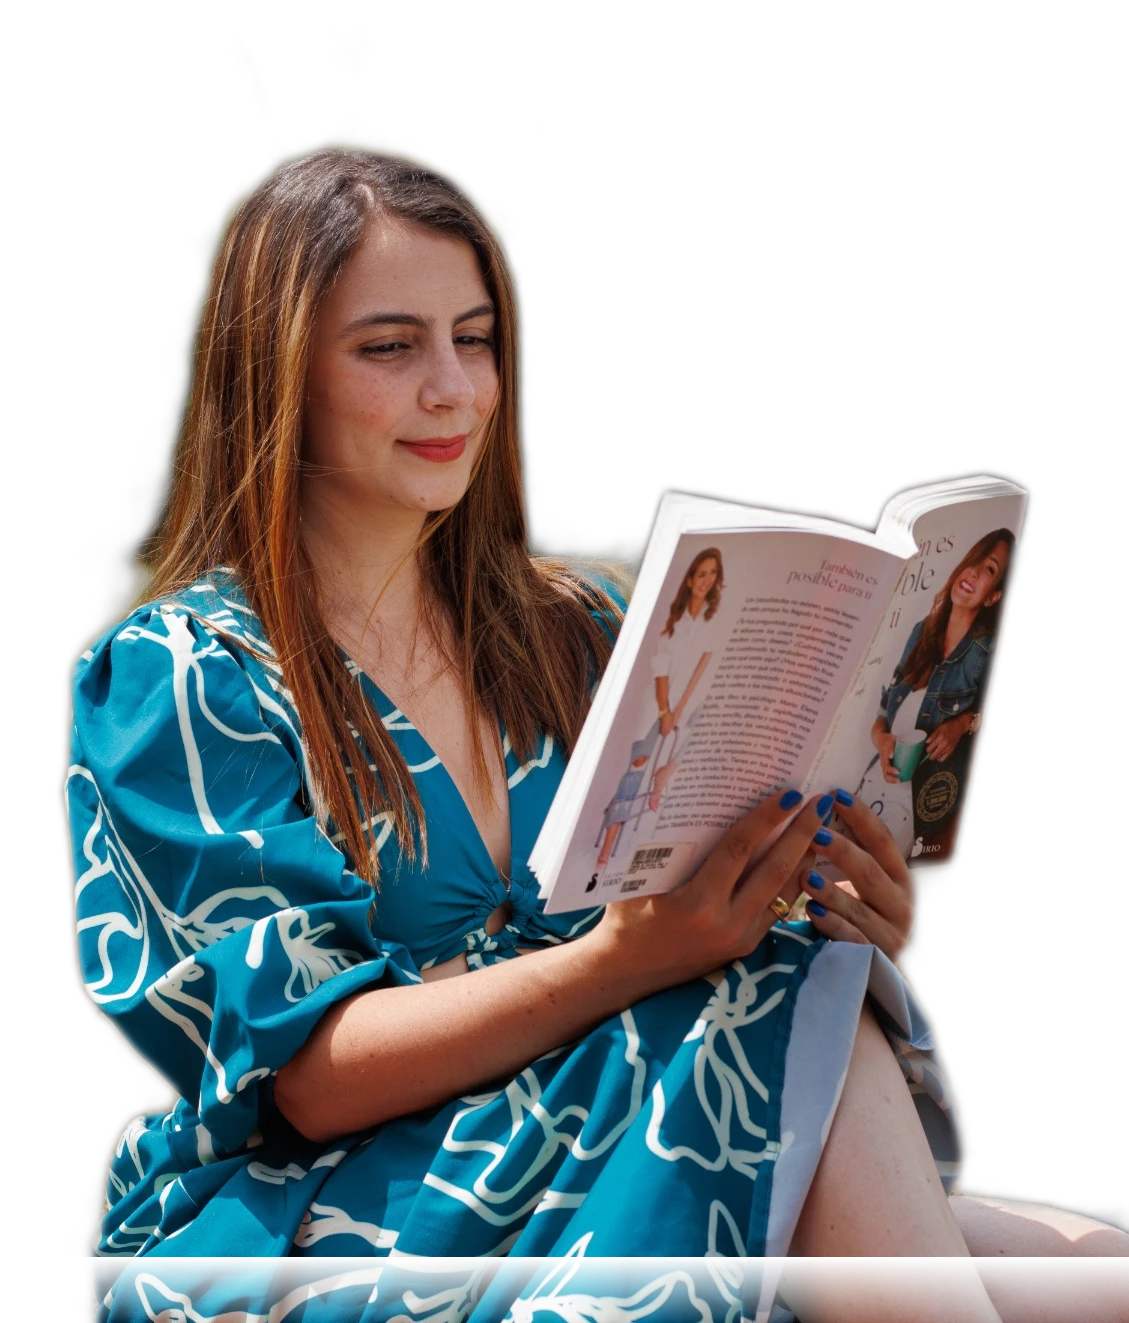
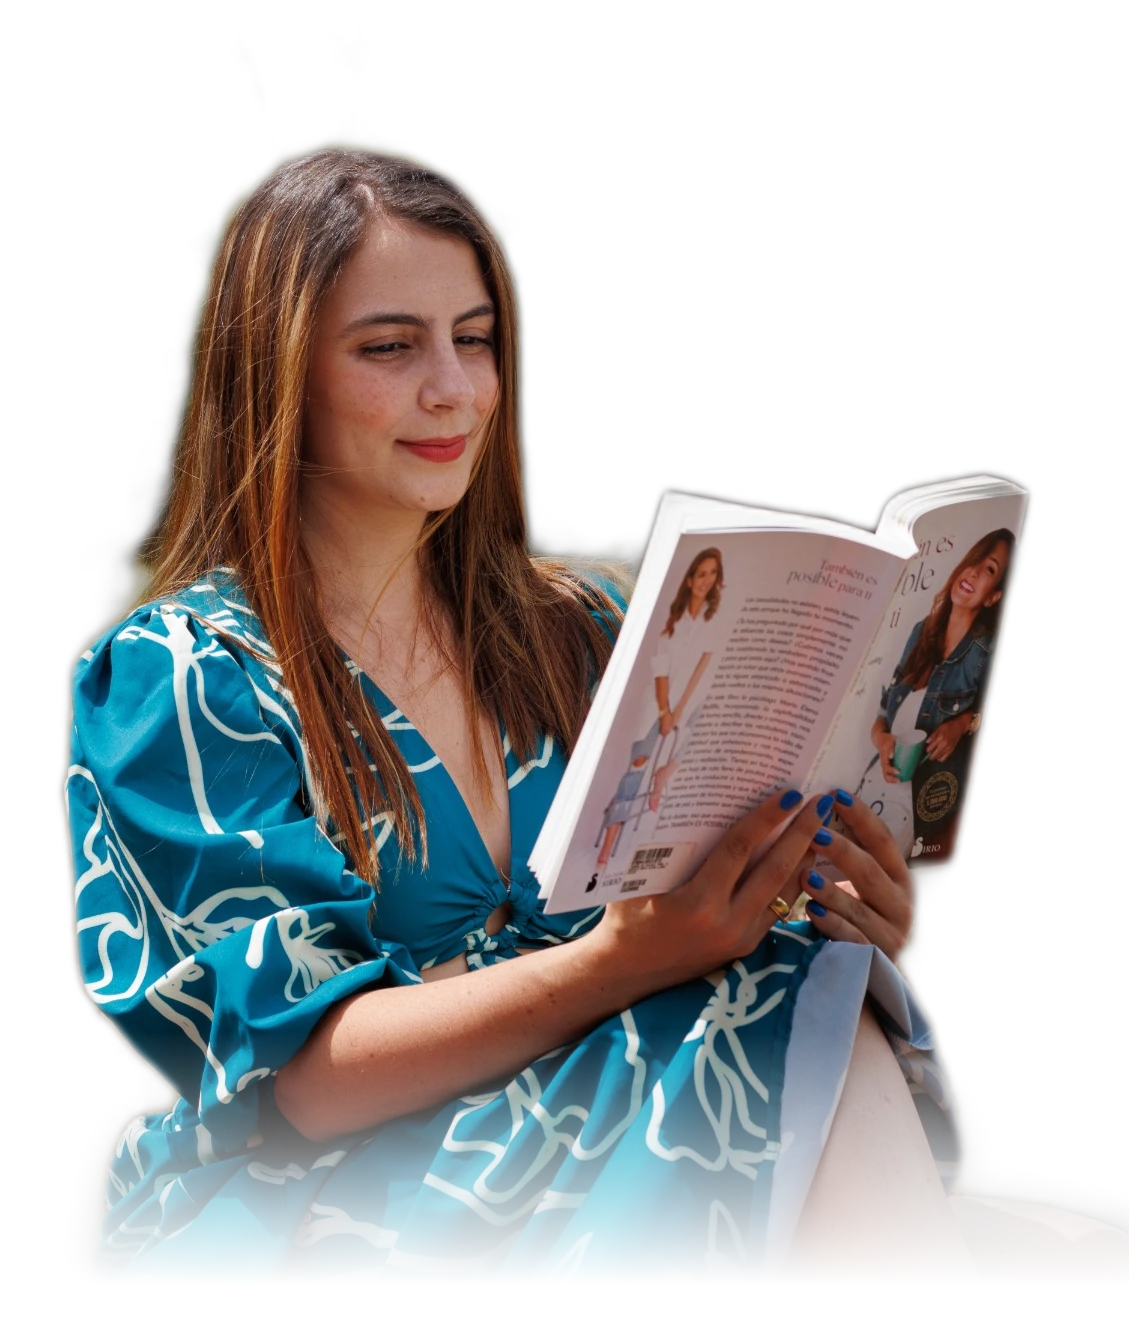
Quita los orbes/sombra del header y difumina la foto en vez de cortarla
La foto ahora se disuelve con un blur progresivo hacia abajo (mezcla
nítido->borroso + fade de alfa) en vez de depender de las formas de
sombra en CSS para disimular un corte recto que se veía "mal pegado".

Además:
- Tarjeta con fondo propio para "Mi forma de acompañarte" (contraste
  real contra la página) + columna única en móvil.
- Botones de la historia (acordeón) de azul petróleo más claro en vez
  de azul profundo — se veían muy oscuros.

Changed region(s): [[0.062, 0.7748, 1.0, 1.0]]

diff --git a/index.html b/index.html
@@ -76,20 +76,6 @@
   }
   .hero-photo-wrap { grid-area: foto; position: relative; display: flex; justify-content: center; padding-bottom: 22px; }
   @media (max-width: 860px) { .hero-photo-wrap { padding-bottom: 4px; } }
-  .hero-photo-asiento {
-    position: absolute; left: 50%; bottom: -10px; transform: translateX(-50%);
-    width: 84%; height: 15%; min-height: 66px;
-    background: linear-gradient(160deg, rgba(169,125,121,0.55), rgba(92,138,155,0.55) 130%);
-    border-radius: 50%; filter: blur(1.5px);
-    box-shadow: 0 18px 30px -12px rgba(63,100,112,0.45);
-    z-index: 0;
-  }
-  .hero-photo-sombra {
-    position: absolute; left: 50%; bottom: -26px; transform: translateX(-50%);
-    width: 74%; height: 30px;
-    background: radial-gradient(closest-side, rgba(63,100,112,0.4), transparent 75%);
-    filter: blur(2px); z-index: 0;
-  }
   .hero-photo {
     width: min(500px, 92vw); height: auto; object-fit: contain;
     filter: drop-shadow(0 26px 40px rgba(63,100,112,0.28));
@@ -97,8 +83,6 @@
   }
   @media (max-width: 640px) {
     .hero-photo { width: min(280px, 70vw); }
-    .hero-photo-asiento { bottom: 2px; height: 15%; min-height: 46px; }
-    .hero-photo-sombra { height: 16px; }
   }
   .hero .eyebrow {
     display: inline-flex; align-items: center; gap: 10px; font-size: 12px; font-weight: 700;
@@ -206,7 +190,7 @@
   .mov-detalle p { margin-top: 8px; }
   .mov-tit {
     cursor: pointer; list-style: none; font-family: "Fraunces", Georgia, serif; font-size: 15px;
-    font-weight: 600; color: #fff; background: var(--navy-deep); display: flex; align-items: center; gap: 8px;
+    font-weight: 600; color: #fff; background: var(--navy); display: flex; align-items: center; gap: 8px;
     padding: 11px 18px; border-radius: 999px; transition: background 0.18s, color 0.18s, transform 0.18s;
   }
   .mov-tit::-webkit-details-marker { display: none; }
@@ -308,6 +292,23 @@
   }
   .punch-line { font-weight: 700; font-size: 17px; margin: 18px 0 0; color: var(--navy-deep); }
   .band.tint-navy .punch-line { color: var(--navy-deep); }
+
+  .acompanarte-card {
+    margin-top: 40px; padding: 32px; background: var(--gold-tint); border-radius: 22px;
+  }
+  .acompanarte-row { display: flex; gap: 22px; margin-top: 20px; }
+  .acompanarte-item {
+    flex: 1; min-width: 0; display: flex; flex-direction: column; align-items: center; text-align: center; gap: 10px;
+  }
+  .acompanarte-item p { font-size: 13.5px; margin: 0; color: var(--text); font-weight: 600; }
+  .acompanarte-icono {
+    width: 54px; height: 54px; border-radius: 50%; background: #fff; display: flex; align-items: center;
+    justify-content: center; flex-shrink: 0; box-shadow: 0 6px 14px rgba(63,100,112,0.12);
+  }
+  @media (max-width: 640px) {
+    .acompanarte-card { padding: 26px 20px; }
+    .acompanarte-row { flex-direction: column; gap: 26px; }
+  }
   @media (max-width: 720px) { .mirada-flex { flex-direction: column; align-items: flex-start; } }
   .mirada-photo { flex: 0 0 auto; display: flex; justify-content: center; }
   .mirada-photo img {
@@ -551,8 +552,6 @@
         <h1><em>Te&nbsp;acompaño</em> a mirarte con más calma y a relacionarte distinto contigo, con los demás y con la vida.</h1>
       </div>
       <div class="hero-photo-wrap">
-        <div class="hero-photo-sombra"></div>
-        <div class="hero-photo-asiento"></div>
         <img class="hero-photo" src="elizabeth-foto-hero.webp" alt="Elizabet García Duque">
       </div>
       <div class="hero-detalle">
@@ -703,29 +702,29 @@
         </div>
       </div>
 
-      <div style="margin-top: 40px; padding-top: 32px; border-top: 1px solid var(--border);">
+      <div class="acompanarte-card">
         <p class="eyebrow-sm c-gold"><span class="dash" style="background:var(--gold);"></span>Mi forma de acompañarte</p>
-        <div style="display: flex; gap: 22px; flex-wrap: wrap; margin-top: 20px;">
-          <div style="flex: 1; min-width: 170px; display: flex; flex-direction: column; align-items: center; text-align: center; gap: 10px;">
-            <span style="width: 54px; height: 54px; border-radius: 50%; background: var(--gold-tint); display: flex; align-items: center; justify-content: center; flex-shrink: 0;">
+        <div class="acompanarte-row">
+          <div class="acompanarte-item">
+            <span class="acompanarte-icono">
               <svg viewBox="0 0 24 24" width="22" height="22" fill="none" stroke="var(--gold-deep)" stroke-width="1.8" stroke-linecap="round" stroke-linejoin="round"><circle cx="9" cy="12" r="5"/><circle cx="15" cy="12" r="5"/></svg>
             </span>
-            <p style="font-size: 13.5px; margin: 0; color: var(--text-faint);">Cómo te relacionas contigo</p>
+            <p>Cómo te relacionas contigo</p>
           </div>
-          <div style="flex: 1; min-width: 170px; display: flex; flex-direction: column; align-items: center; text-align: center; gap: 10px;">
-            <span style="width: 54px; height: 54px; border-radius: 50%; background: var(--gold-tint); display: flex; align-items: center; justify-content: center; flex-shrink: 0;">
+          <div class="acompanarte-item">
+            <span class="acompanarte-icono">
               <svg viewBox="0 0 24 24" width="22" height="22" fill="none" stroke="var(--gold-deep)" stroke-width="1.8" stroke-linecap="round" stroke-linejoin="round"><path d="M12 20s-7-4.35-9.5-9C1 7.5 2.5 4 6 4c2 0 3.5 1.2 4 2.5C10.5 5.2 12 4 14 4c3.5 0 5 3.5 3.5 7-2.5 4.65-9.5 9-9.5 9z"/></svg>
             </span>
-            <p style="font-size: 13.5px; margin: 0; color: var(--text-faint);">Qué haces cuando aparece una emoción</p>
+            <p>Qué haces cuando aparece una emoción</p>
           </div>
-          <div style="flex: 1; min-width: 170px; display: flex; flex-direction: column; align-items: center; text-align: center; gap: 10px;">
-            <span style="width: 54px; height: 54px; border-radius: 50%; background: var(--gold-tint); display: flex; align-items: center; justify-content: center; flex-shrink: 0;">
+          <div class="acompanarte-item">
+            <span class="acompanarte-icono">
               <svg viewBox="0 0 24 24" width="22" height="22" fill="none" stroke="var(--gold-deep)" stroke-width="1.8" stroke-linecap="round" stroke-linejoin="round"><path d="M20 11a8 8 0 0 0-14.9-4"/><path d="M4 4v5h5"/><path d="M4 13a8 8 0 0 0 14.9 4"/><path d="M20 20v-5h-5"/></svg>
             </span>
-            <p style="font-size: 13.5px; margin: 0; color: var(--text-faint);">Qué patrón está ocurriendo en ese momento</p>
+            <p>Qué patrón está ocurriendo en ese momento</p>
           </div>
         </div>
-        <p class="mapa-caption" style="margin-top: 24px;">"Aquí no vienes solamente a entenderte. Vienes a observarte en relación y a practicar una forma diferente de estar contigo."</p>
+        <p class="mapa-caption" style="margin-top: 26px;">"Aquí no vienes solamente a entenderte. Vienes a observarte en relación y a practicar una forma diferente de estar contigo."</p>
       </div>
     </div>
   </section>
